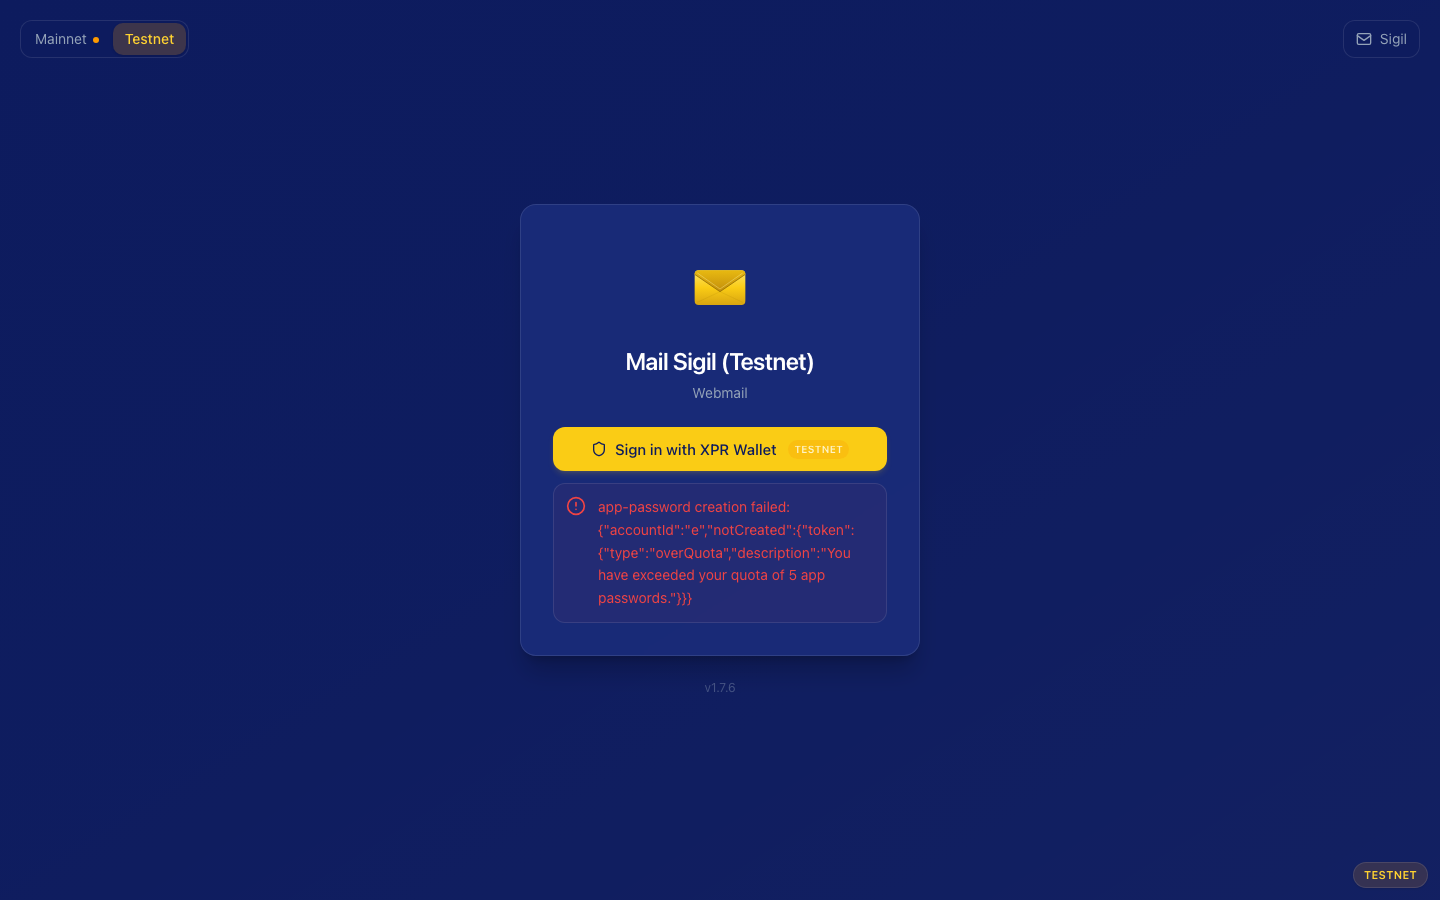
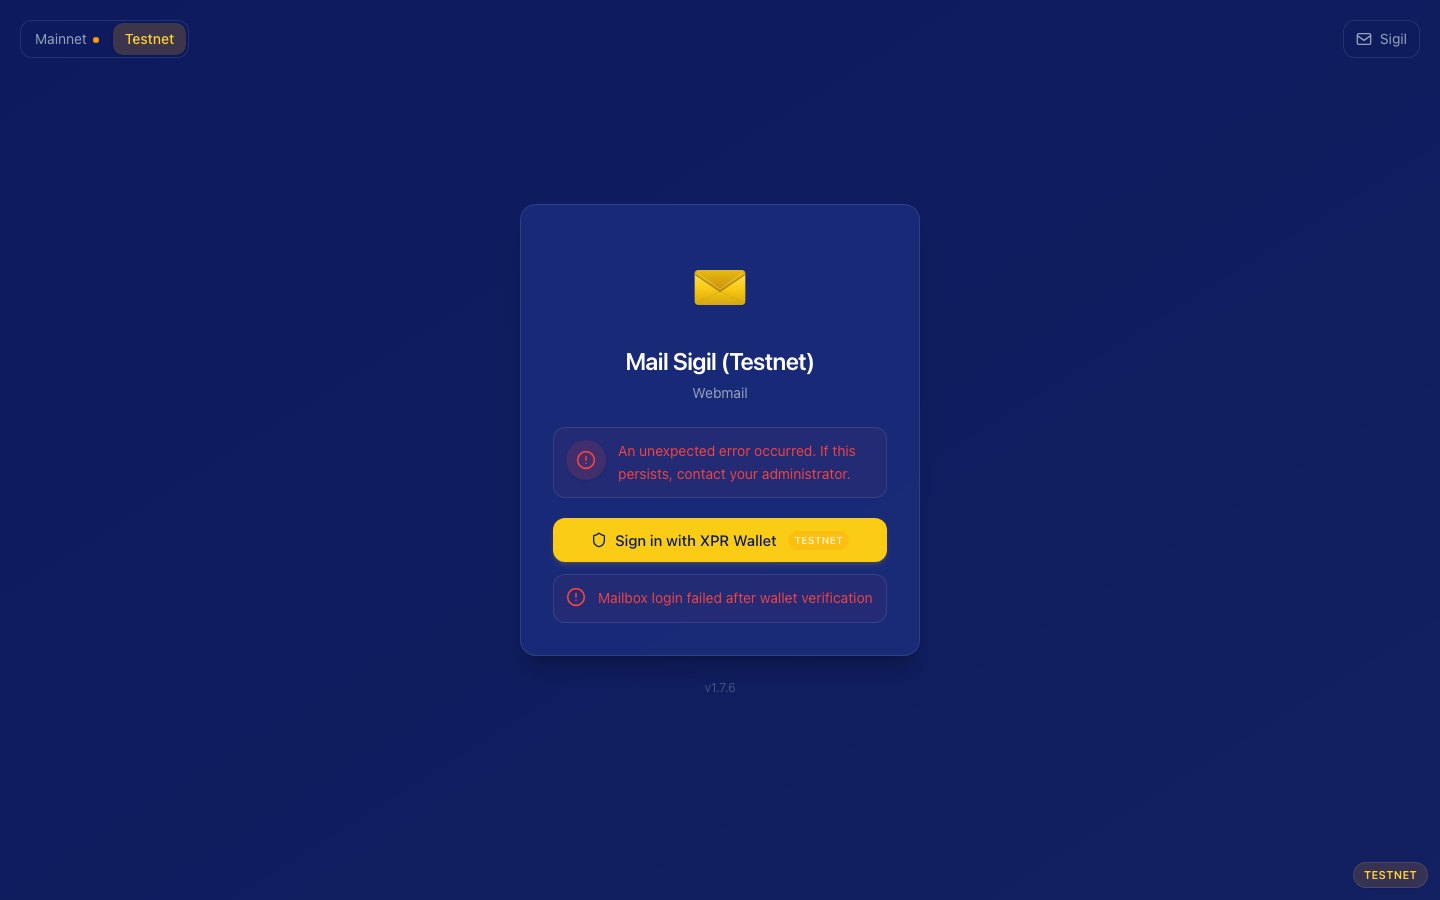
feat(grants): surface restorable grants in the webmail
The retention endpoints existed but nothing showed them, so a returning user
would have had to call the API by hand to find out anything was recoverable.

Issued Grants now shows a "Previously granted access" panel listing grants
torn down when a mailbox was deleted, within the 30-day window, each with an
"Offer again" button. Copy states plainly that the agent must still accept and
a new credential is issued — it is a re-offer, not a silent re-provision.

Deliberate revokes never appear: the server filters them out, so the UI cannot
resurrect access someone chose to remove even if it wanted to.

Changed region(s): [[0.375, 0.56, 0.625, 0.6844], [0.375, 0.4667, 0.625, 0.5289]]

diff --git a/components/grants/grants-content.tsx b/components/grants/grants-content.tsx
@@ -229,6 +229,11 @@ export default function GrantsContent() {
   const [linked, setLinked] = useState<LinkedAccounts | null>(null);
   const [incoming, setIncoming] = useState<IncomingGrant[]>([]);
   const [issued, setIssued] = useState<IssuedGrant[]>([]);
+  // Grants torn down when a mailbox was DELETED, still inside the 30-day
+  // retention window. Deliberate revokes never appear here — the server
+  // excludes them, because re-offering access someone chose to remove would
+  // be a security hole, not a convenience.
+  const [restorable, setRestorable] = useState<{ grantId: string; granteeActor: string; scope: string; revokedAt: string }[]>([]);
   const [accepted, setAccepted] = useState<AcceptedGrant[]>([]);
   const [incomingPm, setIncomingPm] = useState<PendingMailbox[]>([]);
   const [sentPm, setSentPm] = useState<PendingMailbox[]>([]);
@@ -299,7 +304,7 @@ export default function GrantsContent() {
     if (!token) return;
     if (!background) setLoading(true);
     try {
-      const [linkedRes, incomingRes, issuedRes, acceptedRes, incomingPmRes, sentPmRes, quotaRes, leaseInfoRes, storageStatusRes, webhooksRes] = await Promise.all([
+      const [linkedRes, incomingRes, issuedRes, acceptedRes, incomingPmRes, sentPmRes, quotaRes, leaseInfoRes, storageStatusRes, webhooksRes, restorableRes] = await Promise.all([
         authFetch("/api/agentcore/linked"),
         authFetch("/api/grants/incoming"),
         authFetch("/api/grants/issued"),
@@ -310,12 +315,14 @@ export default function GrantsContent() {
         authFetch("/api/slots/leases").catch(() => null),
         authFetch("/api/storage/status").catch(() => null),
         authFetch("/api/webhooks").catch(() => null),
+        authFetch("/api/grants/restorable").catch(() => null),
       ]);
       if (linkedRes.ownedAgents) setLinked(linkedRes);
       if (quotaRes?.ok) setQuota(quotaRes);
       if (leaseInfoRes?.ok) setLeaseInfo(leaseInfoRes);
       if (storageStatusRes?.ok) setStorageStatus(storageStatusRes);
       if (webhooksRes?.ok) setWebhooks(webhooksRes.webhooks ?? []);
+      setRestorable(restorableRes?.ok ? (restorableRes.grants ?? []) : []);
       setIncoming(incomingRes.grants ?? []);
       setIssued(issuedRes.grants ?? []);
       setAccepted(acceptedRes.grants ?? []);
@@ -339,6 +346,7 @@ export default function GrantsContent() {
     setIncoming([]);
     setIssued([]);
     setAccepted([]);
+    setRestorable([]);
     setIncomingPm([]);
     setSentPm([]);
     setQuota(null);
@@ -473,6 +481,28 @@ export default function GrantsContent() {
       await loadAll();
       clearStatus(grantId);
     } catch { setStatus(grantId, "Error"); setTimeout(() => clearStatus(grantId), 3000); }
+  };
+
+  // Re-offer a grant that was torn down with a deleted mailbox. The server
+  // mints a NEW pending grant — the grantee still has to accept, and a fresh
+  // credential is issued. Nothing is silently re-provisioned.
+  const handleRestore = async (grantId: string) => {
+    setStatus(grantId, "Re-offering…");
+    try {
+      const res = await authFetch("/api/grants/restore", {
+        method: "POST",
+        headers: { "Content-Type": "application/json" },
+        body: JSON.stringify({ grantId }),
+      });
+      if (res.ok) {
+        await loadAll();
+        setStatus(grantId, "Re-offered — waiting for them to accept");
+      } else {
+        setStatus(grantId, res.error ?? "Could not re-offer");
+      }
+    } catch {
+      setStatus(grantId, "Could not re-offer");
+    }
   };
 
   const handleRevoke = async (grantId: string) => {
@@ -2087,9 +2117,48 @@ export default function GrantsContent() {
           <div className="max-w-xl space-y-4">
             <h1 className="text-lg font-semibold">Issued Grants</h1>
 
-            {issued.length === 0 && sentPm.length === 0 && !loading && (
+            {issued.length === 0 && sentPm.length === 0 && restorable.length === 0 && !loading && (
               <div className="rounded-lg border border-dashed border-border p-8 text-center text-muted-foreground text-sm">
                 No grants issued yet
+              </div>
+            )}
+
+            {/* Grants that were torn down when a mailbox was deleted, still
+                inside the 30-day retention window. Deliberate revokes never
+                appear here — the server filters them out, because re-offering
+                access someone chose to remove would be a security hole. */}
+            {restorable.length > 0 && (
+              <div className="rounded-lg border border-amber-500/40 bg-amber-500/5 p-4 space-y-3">
+                <div>
+                  <p className="text-sm font-medium">Previously granted access</p>
+                  <p className="text-xs text-muted-foreground mt-0.5">
+                    These were removed when a mailbox was deleted. You can offer them again —
+                    the agent still has to accept, and a new credential is issued.
+                  </p>
+                </div>
+                {restorable.map((g) => (
+                  <div key={g.grantId} className="flex items-start justify-between gap-3">
+                    <div className="min-w-0">
+                      <p className="text-sm font-medium break-words flex items-center gap-1.5 flex-wrap">
+                        {g.granteeActor}
+                        <GrantScopeChip scope={g.scope} />
+                      </p>
+                      <p className="text-xs text-muted-foreground mt-0.5">
+                        Removed {new Date(g.revokedAt).toLocaleDateString(undefined, { month: "short", day: "numeric" })}
+                        {actionStatus[g.grantId] ? ` · ${actionStatus[g.grantId]}` : ""}
+                      </p>
+                    </div>
+                    <Button
+                      size="sm"
+                      variant="outline"
+                      className="text-xs shrink-0"
+                      onClick={() => handleRestore(g.grantId)}
+                      disabled={!!actionStatus[g.grantId]}
+                    >
+                      Offer again
+                    </Button>
+                  </div>
+                ))}
               </div>
             )}
 
